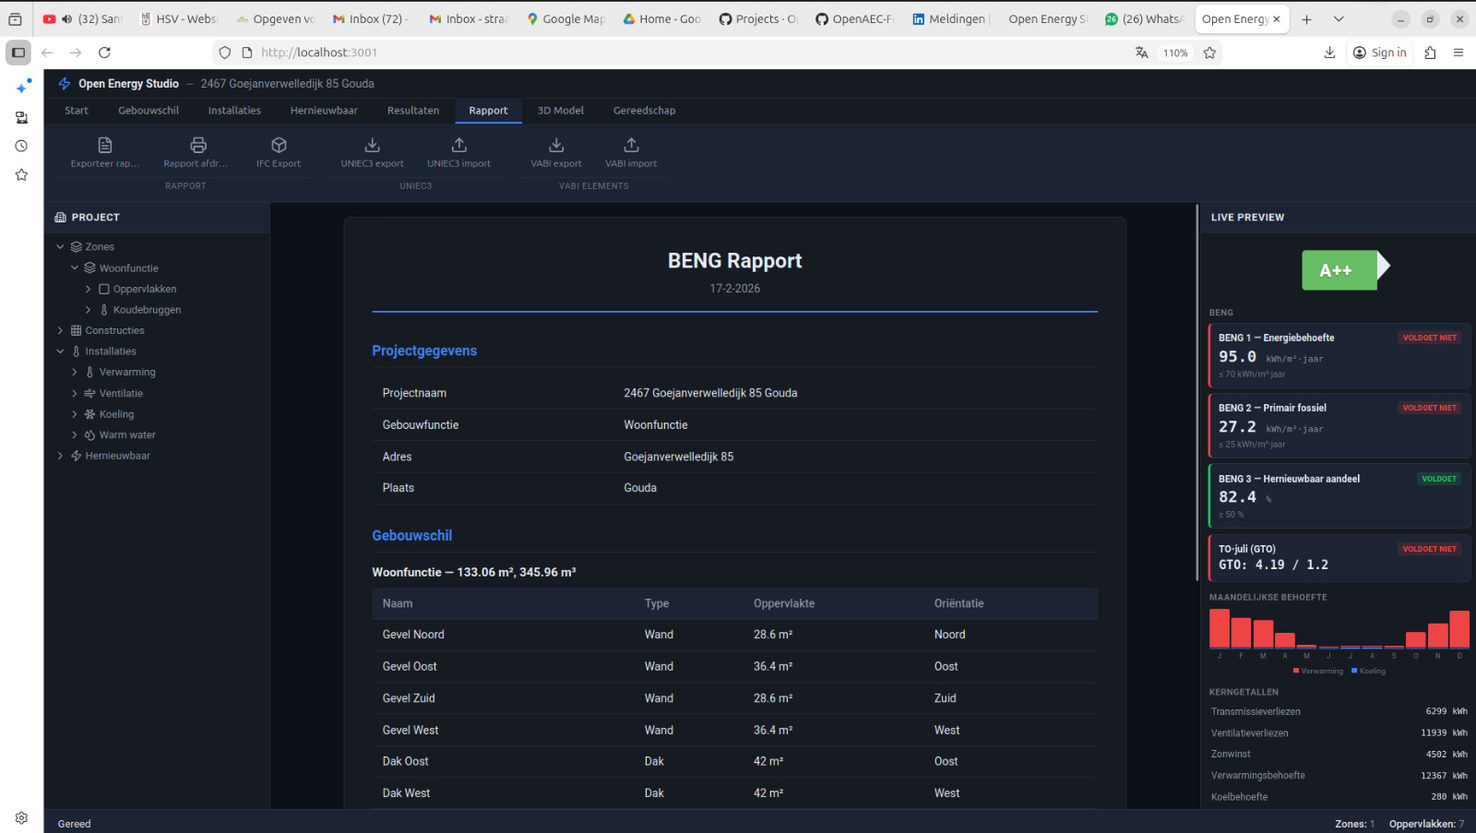
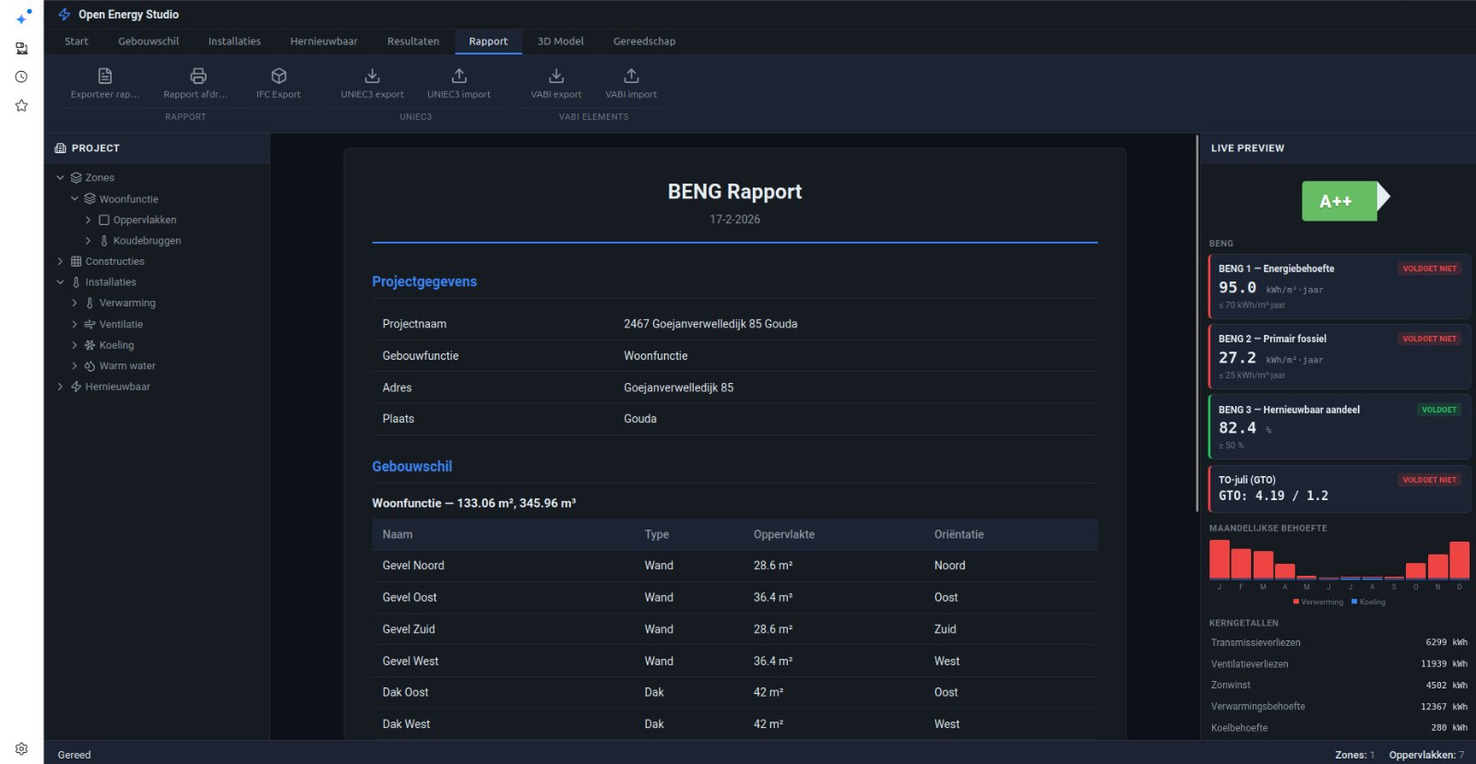
feat(open-energy-studio): A+ product template
Download, live demo and GitHub in the head, four downloads for the latest
release, features and tech with icons, release notes and the shared closing
panel and footer. The screenshots lose the browser bar with personal tabs and
the project address in the title bar.

diff --git a/open-energy-studio/index.html b/open-energy-studio/index.html
@@ -83,20 +83,6 @@
     }
   }
   </script>
-  <style>
-    .media-slider { max-width: 900px; margin: 0 auto var(--sp-8); position: relative; }
-    .slider-container { position: relative; overflow: hidden; border-radius: 12px; background: #2A2A32; }
-    .slider-track { display: flex; transition: transform 0.4s ease; }
-    .slider-slide { min-width: 100%; }
-    .slider-slide img { width: 100%; display: block; border-radius: 12px; }
-    .slider-btn { position: absolute; top: 50%; transform: translateY(-50%); background: rgba(0,0,0,0.5); color: white; border: none; width: 40px; height: 40px; border-radius: 50%; cursor: pointer; font-size: 1.25rem; display: flex; align-items: center; justify-content: center; z-index: 2; }
-    .slider-btn:hover { background: rgba(0,0,0,0.7); }
-    .slider-prev { left: 12px; }
-    .slider-next { right: 12px; }
-    .slider-dots { display: flex; justify-content: center; gap: 8px; padding: 12px 0; }
-    .slider-dot { width: 8px; height: 8px; border-radius: 50%; background: #D6D3D1; border: none; cursor: pointer; }
-    .slider-dot.active { background: #D97706; }
-  </style>
 
   <!-- schema:start -->
   <script type="application/ld+json">
@@ -159,7 +145,7 @@
   </script>
   <!-- schema:end -->
 </head>
-<body>
+<body class="page-panels">
     <div id="shared-nav"><!-- nav:start -->
 <nav class="navbar">
   <div class="nav-container">
@@ -193,67 +179,92 @@
 <!-- nav:end --></div>
 <script src="/shared/nav.js?v=20260728"></script>
 
-  <section class="hero">
-    <span class="section-label" data-i18n="header.label">Energieprestatie — NTA 8800</span>
-    <h1 data-i18n="header.title">Open <span class="accent">Energy</span> Studio</h1>
-    <p class="tagline" data-i18n="header.desc">Open source rekenprogramma voor de energieprestatie van gebouwen volgens NTA 8800. BENG-berekeningen, U-waarde-analyse, dimensionering van warmtepompen en beoordeling van koudebruggen.</p>
-    <div class="btn-group">
-      <a href="#download" class="btn btn-primary btn-lg" data-i18n="header.downloadBtn">Download</a>
-      <a href="https://github.com/OpenAEC-Foundation/open-energy-studio" class="btn btn-ghost btn-lg" data-i18n="header.sourceBtn">Bekijk de broncode</a>
+  <header class="product-head surface-spot">
+    <div class="product-head-inner">
+      <p class="pill-label" data-i18n="header.label">Energieprestatie — NTA 8800</p>
+      <h1 data-i18n="header.title">Open <span class="accent">Energy</span> Studio</h1>
+      <p class="lead" data-i18n="header.desc">Open source rekenprogramma voor de energieprestatie van gebouwen volgens NTA 8800. BENG-berekeningen, U-waarde-analyse, dimensionering van warmtepompen en beoordeling van koudebruggen.</p>
+      <div class="btn-group">
+        <a href="#download" class="btn btn-glow btn-lg"><svg class="ico" aria-hidden="true"><use href="/shared/icons.svg#i-download"/></svg><span data-i18n="header.downloadBtn">Download</span></a>
+        <a href="https://open-energy-studio.open-aec.com/" target="_blank" rel="noopener" class="btn btn-glass btn-lg"><svg class="ico" aria-hidden="true"><use href="/shared/icons.svg#i-play"/></svg><span data-i18n="cta.demo">Live demo</span></a>
+        <a href="https://github.com/OpenAEC-Foundation/open-energy-studio" target="_blank" rel="noopener" class="btn btn-glass btn-lg"><svg class="ico" aria-hidden="true"><use href="/shared/icons.svg#i-external"/></svg><span data-i18n="cta.github">GitHub</span></a>
+      </div>
+      <div class="chip-row">
+        <span class="chip"><svg class="ico" aria-hidden="true"><use href="/shared/icons.svg#i-rocket"/></svg>Alpha</span>
+        <span class="chip"><svg class="ico" aria-hidden="true"><use href="/shared/icons.svg#i-ruler"/></svg>NTA 8800 · BENG</span>
+        <span class="chip"><svg class="ico" aria-hidden="true"><use href="/shared/icons.svg#i-globe"/></svg>Windows · macOS · Linux · Browser</span>
+        <span class="chip"><svg class="ico" aria-hidden="true"><use href="/shared/icons.svg#i-euro"/></svg>€ 0</span>
+      </div>
     </div>
-  </section>
-
-    <div class="media-slider">
+    <div class="media-slider shot-overlap">
       <div class="slider-container">
         <div class="slider-track" id="sliderTrack">
-          <div class="slider-slide"><img src="/shared/assets/screenshots/open-energy-studio.jpeg" alt="Open Energy Studio screenshot"></div>
-          <div class="slider-slide"><img src="/shared/assets/screenshots/open-energy-studio-2.jpeg" alt="Open Energy Studio screenshot 2"></div>
+          <div class="slider-slide"><img src="/shared/assets/screenshots/open-energy-studio.jpeg" alt="Open Energy Studio - BENG-overzicht"></div>
+          <div class="slider-slide"><img src="/shared/assets/screenshots/open-energy-studio-2.jpeg" alt="Open Energy Studio - gebouwgegevens"></div>
         </div>
-        <button class="slider-btn slider-prev" onclick="slideMove(-1)">&lsaquo;</button>
-        <button class="slider-btn slider-next" onclick="slideMove(1)">&rsaquo;</button>
+        <button class="slider-btn slider-prev" onclick="slideMove(-1)" aria-label="Vorige">&lsaquo;</button>
+        <button class="slider-btn slider-next" onclick="slideMove(1)" aria-label="Volgende">&rsaquo;</button>
       </div>
       <div class="slider-dots" id="sliderDots"></div>
     </div>
+  </header>
 
-  <section class="section" id="download"><div class="container">
+  <section class="section after-overlap" id="download"><div class="container">
     <div class="download-section">
       <h3 data-i18n="download.title">Download</h3>
-      <a href="https://github.com/OpenAEC-Foundation/open-energy-studio/releases/download/v0.1.6-alpha/Open.Energy.Studio_0.1.6-alpha_x64-setup.exe" data-gh-download="OpenAEC-Foundation/open-energy-studio" class="btn btn-primary" data-i18n="download.button">Download installer</a>
+      <div class="download-grid">
+        <div class="download-item"><div class="os">Windows</div><div class="size" data-i18n="download.windows">Installer (.exe)</div>
+          <a href="https://github.com/OpenAEC-Foundation/open-energy-studio/releases/download/v0.1.7-alpha/Open.Energy.Studio_0.1.7-alpha_x64-setup.exe" data-gh-download="OpenAEC-Foundation/open-energy-studio" data-platform="windows" class="btn btn-primary btn-sm"><svg class="ico" aria-hidden="true"><use href="/shared/icons.svg#i-download"/></svg>Download</a></div>
+        <div class="download-item"><div class="os">macOS</div><div class="size" data-i18n="download.macos">Apple-processors (.dmg)</div>
+          <a href="https://github.com/OpenAEC-Foundation/open-energy-studio/releases/download/v0.1.7-alpha/Open.Energy.Studio_0.1.7-alpha_aarch64.dmg" data-gh-download="OpenAEC-Foundation/open-energy-studio" data-platform="macos" class="btn btn-primary btn-sm"><svg class="ico" aria-hidden="true"><use href="/shared/icons.svg#i-download"/></svg>Download</a></div>
+        <div class="download-item"><div class="os">Linux</div><div class="size" data-i18n="download.linuxDeb">Debian, Ubuntu (.deb)</div>
+          <a href="https://github.com/OpenAEC-Foundation/open-energy-studio/releases/download/v0.1.7-alpha/Open.Energy.Studio_0.1.7-alpha_amd64.deb" data-gh-download="OpenAEC-Foundation/open-energy-studio" data-platform="linux-deb" class="btn btn-primary btn-sm"><svg class="ico" aria-hidden="true"><use href="/shared/icons.svg#i-download"/></svg>Download</a></div>
+        <div class="download-item"><div class="os">Linux</div><div class="size" data-i18n="download.linuxAppimage">Elke distributie (AppImage)</div>
+          <a href="https://github.com/OpenAEC-Foundation/open-energy-studio/releases/download/v0.1.7-alpha/Open.Energy.Studio_0.1.7-alpha_amd64.AppImage" data-gh-download="OpenAEC-Foundation/open-energy-studio" data-platform="linux-appimage" class="btn btn-primary btn-sm"><svg class="ico" aria-hidden="true"><use href="/shared/icons.svg#i-download"/></svg>Download</a></div>
+      </div>
     </div>
   </div></section>
 
-  <section class="section section-alt"><div class="container">
+  <section class="section"><div class="container">
     <h2 data-i18n="features.heading">Functies</h2>
-    <div class="features" style="margin-top:var(--sp-8)">
+    <div class="features features-4">
       <div class="feature">
+        <div class="icon-tile"><svg class="ico" aria-hidden="true"><use href="/shared/icons.svg#i-bolt"/></svg></div>
         <h4 data-i18n="features.beng.title">BENG-berekeningen</h4>
         <p data-i18n="features.beng.desc">BENG-berekeningen volgens NTA 8800, met de BENG-indicatoren overzichtelijk in beeld.</p>
       </div>
       <div class="feature">
+        <div class="icon-tile"><svg class="ico" aria-hidden="true"><use href="/shared/icons.svg#i-layers"/></svg></div>
         <h4 data-i18n="features.uvalue.title">U-waarde calculator</h4>
         <p data-i18n="features.uvalue.desc">Bereken de warmtedoorgangscoëfficiënt (U-waarde) van gevels, daken en vloeren.</p>
       </div>
       <div class="feature">
+        <div class="icon-tile"><svg class="ico" aria-hidden="true"><use href="/shared/icons.svg#i-chip"/></svg></div>
         <h4 data-i18n="features.heatpump.title">Warmtepomp dimensioneren</h4>
         <p data-i18n="features.heatpump.desc">Bepaal het benodigde vermogen van de warmtepomp op basis van de gebouweigenschappen en de klimaatgegevens.</p>
       </div>
       <div class="feature">
+        <div class="icon-tile"><svg class="ico" aria-hidden="true"><use href="/shared/icons.svg#i-link"/></svg></div>
         <h4 data-i18n="features.thermal.title">Koudebruggen berekenen</h4>
         <p data-i18n="features.thermal.desc">Beoordeel koudebruggen en wat ze doen met de energieprestatie.</p>
       </div>
       <div class="feature">
+        <div class="icon-tile"><svg class="ico" aria-hidden="true"><use href="/shared/icons.svg#i-grid"/></svg></div>
         <h4 data-i18n="features.charts.title">Grafieken van het energiegebruik</h4>
         <p data-i18n="features.charts.desc">Het energiegebruik uitgesplitst in beeld, plus grafieken van de prestatie per maand.</p>
       </div>
       <div class="feature">
+        <div class="icon-tile"><svg class="ico" aria-hidden="true"><use href="/shared/icons.svg#i-cube"/></svg></div>
         <h4 data-i18n="features.building3d.title">3D-weergave van het gebouw</h4>
         <p data-i18n="features.building3d.desc">De gebouwschil in 3D, inclusief de thermische eigenschappen.</p>
       </div>
       <div class="feature">
+        <div class="icon-tile"><svg class="ico" aria-hidden="true"><use href="/shared/icons.svg#i-folder"/></svg></div>
         <h4 data-i18n="features.projects.title">Projectbeheer</h4>
         <p data-i18n="features.projects.desc">Een projectoverzicht om meerdere gebouwen naast elkaar te beheren, met een eigenschappenpaneel voor de details.</p>
       </div>
       <div class="feature">
+        <div class="icon-tile"><svg class="ico" aria-hidden="true"><use href="/shared/icons.svg#i-printer"/></svg></div>
         <h4 data-i18n="features.reporting.title">Rapportage</h4>
         <p data-i18n="features.reporting.desc">Genereer energieprestatierapporten met afdrukvoorbeeld. Ribbon-werkbalk met een instellingenvenster.</p>
       </div>
@@ -262,49 +273,101 @@
 
   <section class="section"><div class="container">
     <h2 data-i18n="tech.heading">Techniek</h2>
-    <div class="features" style="margin-top:var(--sp-8)">
-      <div class="feature"><h4 data-i18n="tech.tauri.title">Tauri 2</h4><p data-i18n="tech.tauri.desc">Een native desktopapplicatie met Rust eronder. Versienummering volgens CalVer (JAAR.MAAND.BUILD).</p></div>
-      <div class="feature"><h4 data-i18n="tech.react.title">React 18 + TypeScript</h4><p data-i18n="tech.react.desc">Een interface uit losse componenten, gebouwd met Vite.</p></div>
+    <div class="features features-compact features-center">
+      <div class="feature"><div class="icon-tile"><svg class="ico" aria-hidden="true"><use href="/shared/icons.svg#i-bolt"/></svg></div><div><h4 data-i18n="tech.tauri.title">Tauri 2</h4><p data-i18n="tech.tauri.desc">Een native desktopapplicatie met Rust eronder. Versienummering volgens CalVer (JAAR.MAAND.BUILD).</p></div></div>
+      <div class="feature"><div class="icon-tile"><svg class="ico" aria-hidden="true"><use href="/shared/icons.svg#i-chip"/></svg></div><div><h4 data-i18n="tech.react.title">React 18 + TypeScript</h4><p data-i18n="tech.react.desc">Een interface uit losse componenten, gebouwd met Vite.</p></div></div>
     </div>
   </div></section>
-
-  <section style="background: var(--concrete); padding: 3rem 1.5rem; text-align: center;">
-    <div style="max-width: 900px; margin: 0 auto; display: flex; gap: 1rem; justify-content: center; flex-wrap: wrap;">
-      <a href="https://open-energy-studio.open-aec.com/" target="_blank" rel="noopener" class="btn btn-primary btn-lg" data-i18n="cta.demo">Live demo &rarr;</a>
-      <a href="https://github.com/OpenAEC-Foundation/open-energy-studio" target="_blank" rel="noopener" class="btn btn-secondary btn-lg" data-i18n="cta.github">GitHub &rarr;</a>
-    </div>
-  </section>
 
   <!-- Release Notes (shared component) -->
   <div data-release-notes="open-energy-studio"></div>
   <script src="/shared/release-notes.js?v=20260728"></script>
 
-  <footer class="footer"><div class="footer-container">
-    <a href="/" class="nav-brand">Open<span class="accent">AEC</span></a>
-    <span data-i18n="footer.slogan">Build free. Build together.</span>
-    <a href="https://github.com/OpenAEC-Foundation">GitHub</a>
-    <span>&copy; 2026 OpenAEC Foundation</span>
-  </div></footer>
+  <section class="section surface-spot panel">
+    <div class="panel-center">
+      <h2 data-i18n="header.title">Open <span class="accent">Energy</span> Studio</h2>
+      <div class="btn-group">
+        <a href="#download" class="btn btn-glow btn-lg"><svg class="ico" aria-hidden="true"><use href="/shared/icons.svg#i-download"/></svg><span data-i18n="header.downloadBtn">Download</span></a>
+        <a href="https://open-energy-studio.open-aec.com/" target="_blank" rel="noopener" class="btn btn-glass btn-lg"><svg class="ico" aria-hidden="true"><use href="/shared/icons.svg#i-play"/></svg><span data-i18n="cta.demo">Live demo</span></a>
+        <a href="https://github.com/OpenAEC-Foundation/open-energy-studio" target="_blank" rel="noopener" class="btn btn-glass btn-lg"><svg class="ico" aria-hidden="true"><use href="/shared/icons.svg#i-star"/></svg><span data-i18n="cta.github">GitHub</span></a>
+      </div>
+    </div>
+  </section>
+
+  <div id="shared-footer"><!-- footer:start -->
+<footer class="site-footer">
+  <div class="site-footer-inner">
+    <div class="site-footer-grid">
+      <div class="site-footer-about">
+        <a href="/" class="nav-brand">Open<span class="accent">AEC</span></a>
+        <p data-i18n-en="Open source software for the entire AEC chain (buildings, infrastructure, civil engineering) — from design to delivery and management." data-i18n-fr="Logiciels open source pour toute la chaîne AEC (bâtiment, infrastructure, génie civil) — de la conception à la livraison et à la gestion." data-i18n-tr="Tüm AEC zinciri (bina, altyapı, inşaat mühendisliği) için açık kaynak yazılım — tasarımdan teslime ve yönetime kadar." data-i18n-es="Software de código abierto para toda la cadena AEC (edificación, infraestructuras, ingeniería civil) — desde el diseño hasta la entrega y la gestión.">Open source software voor de volledige AEC-keten (bouw, utiliteit, GWW en civiele techniek) — van ontwerp tot oplevering en beheer.</p>
+      </div>
+      <nav class="site-footer-col" aria-label="Pagina's">
+        <h4 data-i18n-en="Pages" data-i18n-fr="Pages" data-i18n-tr="Sayfalar" data-i18n-es="Páginas">Pagina's</h4>
+        <a href="/over-ons.html" data-i18n-en="About us" data-i18n-fr="À propos" data-i18n-tr="Hakkımızda" data-i18n-es="Sobre nosotros">Over ons</a>
+        <a href="/ifcx/">IFCX</a>
+        <a href="/roadmap/" data-i18n-en="Roadmap 2026" data-i18n-fr="Feuille de route 2026" data-i18n-tr="2026 yol haritası" data-i18n-es="Hoja de ruta 2026">Roadmap 2026</a>
+        <a href="/architectuur/" data-i18n-en="Architecture" data-i18n-fr="Architecture" data-i18n-tr="Mimari" data-i18n-es="Arquitectura">Architectuur</a>
+        <a href="/supporters/" data-i18n-en="Supporters" data-i18n-fr="Partenaires" data-i18n-tr="Destekçiler" data-i18n-es="Colaboradores">Supporters</a>
+        <a href="/offerte/" data-i18n-en="Request quote" data-i18n-fr="Demander un devis" data-i18n-tr="Teklif iste" data-i18n-es="Solicitar presupuesto">Offerte aanvragen</a>
+        <a href="/structuur/" data-i18n-en="Structure" data-i18n-fr="Structure" data-i18n-tr="Yapı" data-i18n-es="Estructura">Structuur</a>
+        <a href="/faq/" data-i18n-en="FAQ" data-i18n-fr="FAQ" data-i18n-tr="SSS" data-i18n-es="Preguntas frecuentes">FAQ</a>
+        <a href="/statistieken/" data-i18n-en="Timeline &amp; Statistics" data-i18n-fr="Chronologie &amp; statistiques" data-i18n-tr="Zaman çizelgesi &amp; istatistikler" data-i18n-es="Cronología &amp; estadísticas">Tijdlijn &amp; Statistieken</a>
+        <a href="/disclaimer/" data-i18n-en="Disclaimer" data-i18n-fr="Avertissement" data-i18n-tr="Sorumluluk reddi" data-i18n-es="Aviso legal">Disclaimer</a>
+        <a href="/statuten/" data-i18n-en="Draft statutes" data-i18n-fr="Projet de statuts" data-i18n-tr="Taslak tüzük" data-i18n-es="Borrador de estatutos">Concept statuten</a>
+        <a href="/credits/" data-i18n-en="Credits" data-i18n-fr="Crédits" data-i18n-tr="Teşekkürler" data-i18n-es="Créditos">Credits</a>
+        <a href="/beleid/" data-i18n-en="Policy &amp; positions" data-i18n-fr="Politique &amp; positions" data-i18n-tr="Politika &amp; duruşlar" data-i18n-es="Política y posiciones">Beleid & standpunten</a>
+        <a href="/socials/" data-i18n-en="Socials" data-i18n-fr="Réseaux sociaux" data-i18n-tr="Sosyal medya" data-i18n-es="Redes sociales">Socials</a>
+      </nav>
+      <nav class="site-footer-col" aria-label="Meer tools">
+        <h4 data-i18n-en="More tools" data-i18n-fr="Plus d'outils" data-i18n-tr="Daha fazla araç" data-i18n-es="Más herramientas">Meer tools</h4>
+        <a href="/open-energy-studio/">Open Energy Studio</a>
+        <a href="/open-safety-studio/">Open Safety Studio</a>
+        <a href="/open-3d-viewer/">Open 3D Viewer</a>
+        <a href="/open-books/">OpenBooks</a>
+        <a href="/openaec-cloud/">OpenAEC Cloud</a>
+        <a href="/openaec-docs/">OpenAEC Docs</a>
+        <a href="/ext-drawing-statistics/">Drawing Statistics</a>
+        <a href="/y-app/">Y-app</a>
+      </nav>
+      <div class="site-footer-col">
+        <h4 data-i18n-en="Foundation i.f." data-i18n-fr="Fondation en cours de constitution" data-i18n-tr="Kuruluş aşamasında vakıf" data-i18n-es="Fundación en constitución">Stichting i.o.</h4>
+        <p>Burgemeester de Raadtsingel 31<br>3311 JG Dordrecht<br><span data-i18n-en="The Netherlands" data-i18n-fr="Pays-Bas" data-i18n-tr="Hollanda" data-i18n-es="Países Bajos">Nederland</span></p>
+      </div>
+    </div>
+    <div class="site-footer-bottom">
+      <p data-i18n-en="© 2026 Open AEC Foundation i.f. — Open source for an open construction &amp; infrastructure industry" data-i18n-fr="© 2026 Open AEC Foundation, en cours de constitution — L'open source pour un secteur ouvert de la construction et de l'infrastructure" data-i18n-tr="© 2026 Open AEC Foundation (kuruluş aşamasında) — Açık inşaat ve altyapı sektörü için açık kaynak" data-i18n-es="© 2026 Open AEC Foundation i.f. — Código abierto para un sector abierto de la construcción y las infraestructuras">© 2026 Open AEC Foundation i.o. — Open source voor een open bouw- en infrasector</p>
+      <div class="footer-socials">
+        <a href="https://github.com/OpenAEC-Foundation" target="_blank" rel="noopener" aria-label="GitHub" title="GitHub"><svg viewBox="0 0 24 24" aria-hidden="true"><path d="M12 0C5.374 0 0 5.373 0 12c0 5.302 3.438 9.8 8.207 11.387.599.111.793-.261.793-.577v-2.234c-3.338.726-4.033-1.416-4.033-1.416-.546-1.387-1.333-1.756-1.333-1.756-1.089-.745.083-.729.083-.729 1.205.084 1.839 1.237 1.839 1.237 1.07 1.834 2.807 1.304 3.492.997.107-.775.418-1.305.762-1.604-2.665-.305-5.467-1.334-5.467-5.931 0-1.311.469-2.381 1.236-3.221-.124-.303-.535-1.524.117-3.176 0 0 1.008-.322 3.301 1.23A11.509 11.509 0 0112 5.803c1.02.005 2.047.138 3.006.404 2.291-1.552 3.297-1.23 3.297-1.23.653 1.653.242 2.874.118 3.176.77.84 1.235 1.911 1.235 3.221 0 4.609-2.807 5.624-5.479 5.921.43.372.823 1.102.823 2.222v3.293c0 .319.192.694.801.576C20.566 21.797 24 17.3 24 12c0-6.627-5.373-12-12-12z"/></svg></a>
+          <a href="https://www.linkedin.com/company/openaec-foundation-io" target="_blank" rel="noopener" aria-label="LinkedIn" title="LinkedIn"><svg viewBox="0 0 24 24" aria-hidden="true"><path d="M20.447 20.452h-3.554v-5.569c0-1.328-.027-3.037-1.852-3.037-1.853 0-2.136 1.445-2.136 2.939v5.667H9.351V9h3.414v1.561h.046c.477-.9 1.637-1.85 3.37-1.85 3.601 0 4.267 2.37 4.267 5.455v6.286zM5.337 7.433a2.062 2.062 0 01-2.063-2.065 2.064 2.064 0 112.063 2.065zm1.782 13.019H3.555V9h3.564v11.452zM22.225 0H1.771C.792 0 0 .774 0 1.729v20.542C0 23.227.792 24 1.771 24h20.451C23.2 24 24 23.227 24 22.271V1.729C24 .774 23.2 0 22.222 0h.003z"/></svg></a>
+          <a href="https://whatsapp.com/channel/0029Vb8VveULI8YT7fsmsA42" target="_blank" rel="noopener" aria-label="WhatsApp" title="WhatsApp"><svg viewBox="0 0 24 24" aria-hidden="true"><path d="M17.472 14.382c-.297-.149-1.758-.867-2.03-.967-.273-.099-.471-.148-.67.15-.197.297-.767.966-.94 1.164-.173.199-.347.223-.644.075-.297-.15-1.255-.463-2.39-1.475-.883-.788-1.48-1.761-1.653-2.059-.173-.297-.018-.458.13-.606.134-.133.298-.347.446-.52.149-.174.198-.298.298-.497.099-.198.05-.371-.025-.52-.075-.149-.669-1.612-.916-2.207-.242-.579-.487-.5-.669-.51-.173-.008-.371-.01-.57-.01-.198 0-.52.074-.792.372-.272.297-1.04 1.016-1.04 2.479 0 1.462 1.065 2.875 1.213 3.074.149.198 2.096 3.2 5.077 4.487.709.306 1.262.489 1.694.625.712.227 1.36.195 1.871.118.571-.085 1.758-.719 2.006-1.413.248-.694.248-1.289.173-1.413-.074-.124-.272-.198-.57-.347m-5.421 7.403h-.004a9.87 9.87 0 01-5.031-1.378l-.361-.214-3.741.982.998-3.648-.235-.374a9.86 9.86 0 01-1.51-5.26c.001-5.45 4.436-9.884 9.888-9.884 2.64 0 5.122 1.03 6.988 2.898a9.825 9.825 0 012.893 6.994c-.003 5.45-4.437 9.884-9.885 9.884m8.413-18.297A11.815 11.815 0 0012.05 0C5.495 0 .16 5.335.157 11.892c0 2.096.547 4.142 1.588 5.945L.057 24l6.305-1.654a11.882 11.882 0 005.683 1.448h.005c6.554 0 11.89-5.335 11.893-11.893a11.821 11.821 0 00-3.48-8.413z"/></svg></a>
+          <a href="https://www.instagram.com/openaec/" target="_blank" rel="noopener" aria-label="Instagram" title="Instagram"><svg viewBox="0 0 24 24" aria-hidden="true"><path d="M12 2.2c3.2 0 3.58.01 4.85.07 1.17.05 1.8.25 2.23.41.56.22.96.48 1.38.9.42.42.68.82.9 1.38.16.43.36 1.06.41 2.23.06 1.27.07 1.65.07 4.85s-.01 3.58-.07 4.85c-.05 1.17-.25 1.8-.41 2.23-.22.56-.48.96-.9 1.38-.42.42-.82.68-1.38.9-.43.16-1.06.36-2.23.41-1.27.06-1.65.07-4.85.07s-3.58-.01-4.85-.07c-1.17-.05-1.8-.25-2.23-.41a3.72 3.72 0 01-1.38-.9 3.72 3.72 0 01-.9-1.38c-.16-.43-.36-1.06-.41-2.23C2.21 15.58 2.2 15.2 2.2 12s.01-3.58.07-4.85c.05-1.17.25-1.8.41-2.23.22-.56.48-.96.9-1.38.42-.42.82-.68 1.38-.9.43-.16 1.06-.36 2.23-.41C8.42 2.21 8.8 2.2 12 2.2zm0 1.62c-3.14 0-3.51.01-4.75.07-.9.04-1.39.19-1.71.32-.43.17-.74.37-1.06.69-.32.32-.52.63-.69 1.06-.13.32-.28.81-.32 1.71-.06 1.24-.07 1.61-.07 4.75s.01 3.51.07 4.75c.04.9.19 1.39.32 1.71.17.43.37.74.69 1.06.32.32.63.52 1.06.69.32.13.81.28 1.71.32 1.24.06 1.61.07 4.75.07s3.51-.01 4.75-.07c.9-.04 1.39-.19 1.71-.32.43-.17.74-.37 1.06-.69.32-.32.52-.63.69-1.06.13-.32.28-.81.32-1.71.06-1.24.07-1.61.07-4.75s-.01-3.51-.07-4.75c-.04-.9-.19-1.39-.32-1.71a2.85 2.85 0 00-.69-1.06 2.85 2.85 0 00-1.06-.69c-.32-.13-.81-.28-1.71-.32-1.24-.06-1.61-.07-4.75-.07zm0 2.76a5.42 5.42 0 110 10.84 5.42 5.42 0 010-10.84zm0 1.62a3.8 3.8 0 100 7.6 3.8 3.8 0 000-7.6zm5.6-2.9a1.27 1.27 0 110 2.54 1.27 1.27 0 010-2.54z"/></svg></a>
+          <a href="https://www.facebook.com/profile.php?id=61595411277065" target="_blank" rel="noopener" aria-label="Facebook" title="Facebook"><svg viewBox="0 0 24 24" aria-hidden="true"><path d="M9.101 23.691v-7.98H6.627v-3.667h2.474v-1.58c0-4.085 1.848-5.978 5.858-5.978.401 0 .955.042 1.468.103a8.68 8.68 0 011.141.195v3.325a8.623 8.623 0 00-.653-.036 26.805 26.805 0 00-.733-.009c-.707 0-1.259.096-1.675.309a1.686 1.686 0 00-.679.622c-.258.42-.374.995-.374 1.752v1.297h3.919l-.386 2.103-.287 1.564h-3.246v8.245C19.396 23.238 24 18.179 24 12.044c0-6.627-5.373-12-12-12s-12 5.373-12 12c0 5.628 3.874 10.35 9.101 11.647z"/></svg></a>
+      </div>
+    </div>
+  </div>
+</footer>
+<!-- footer:end --></div>
   <script>
-    (function(){
-      const track = document.getElementById('sliderTrack');
-      const dots = document.getElementById('sliderDots');
-      if (!track || !dots) return;
-      const slides = track.children.length;
-      let current = 0;
-      for(let i=0;i<slides;i++){
-        const d = document.createElement('button');
-        d.className = 'slider-dot' + (i===0?' active':'');
-        d.onclick = ()=>slideTo(i);
-        dots.appendChild(d);
-      }
-      window.slideMove = function(dir){slideTo(current+dir);};
-      window.slideTo = function(i){
-        current = (i+slides)%slides;
-        track.style.transform = 'translateX(-'+current*100+'%)';
-        dots.querySelectorAll('.slider-dot').forEach((d,idx)=>d.classList.toggle('active',idx===current));
-      };
-    })();
+  (function(){
+    const track = document.getElementById('sliderTrack');
+    const dots = document.getElementById('sliderDots');
+    if (!track || !dots) return;
+    const slides = track.children.length;
+    let current = 0;
+    for(let i=0;i<slides;i++){
+      const d = document.createElement('button');
+      d.className = 'slider-dot' + (i===0?' active':'');
+      d.onclick = ()=>slideTo(i);
+      dots.appendChild(d);
+    }
+    window.slideMove = function(dir){slideTo(current+dir);};
+    window.slideTo = function(i){
+      current = (i+slides)%slides;
+      track.style.transform = 'translateX(-'+current*100+'%)';
+      dots.querySelectorAll('.slider-dot').forEach((d,idx)=>d.classList.toggle('active',idx===current));
+    };
+  })();
   </script>
   <script src="/shared/downloads.js?v=20261001"></script>
   <script src="/shared/i18n.js?v=20260728"></script>
